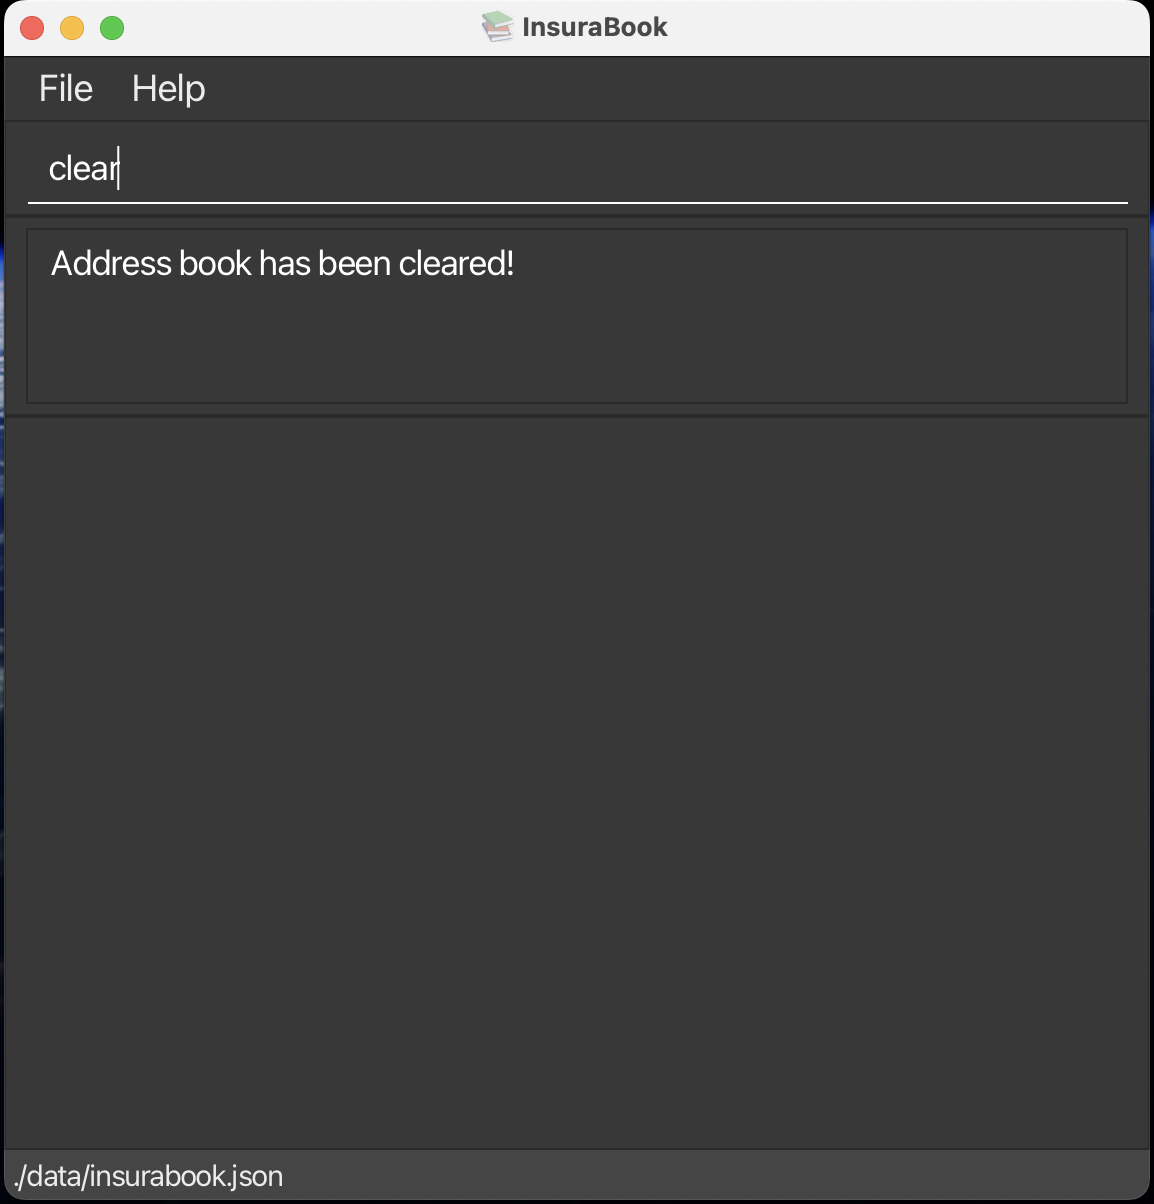
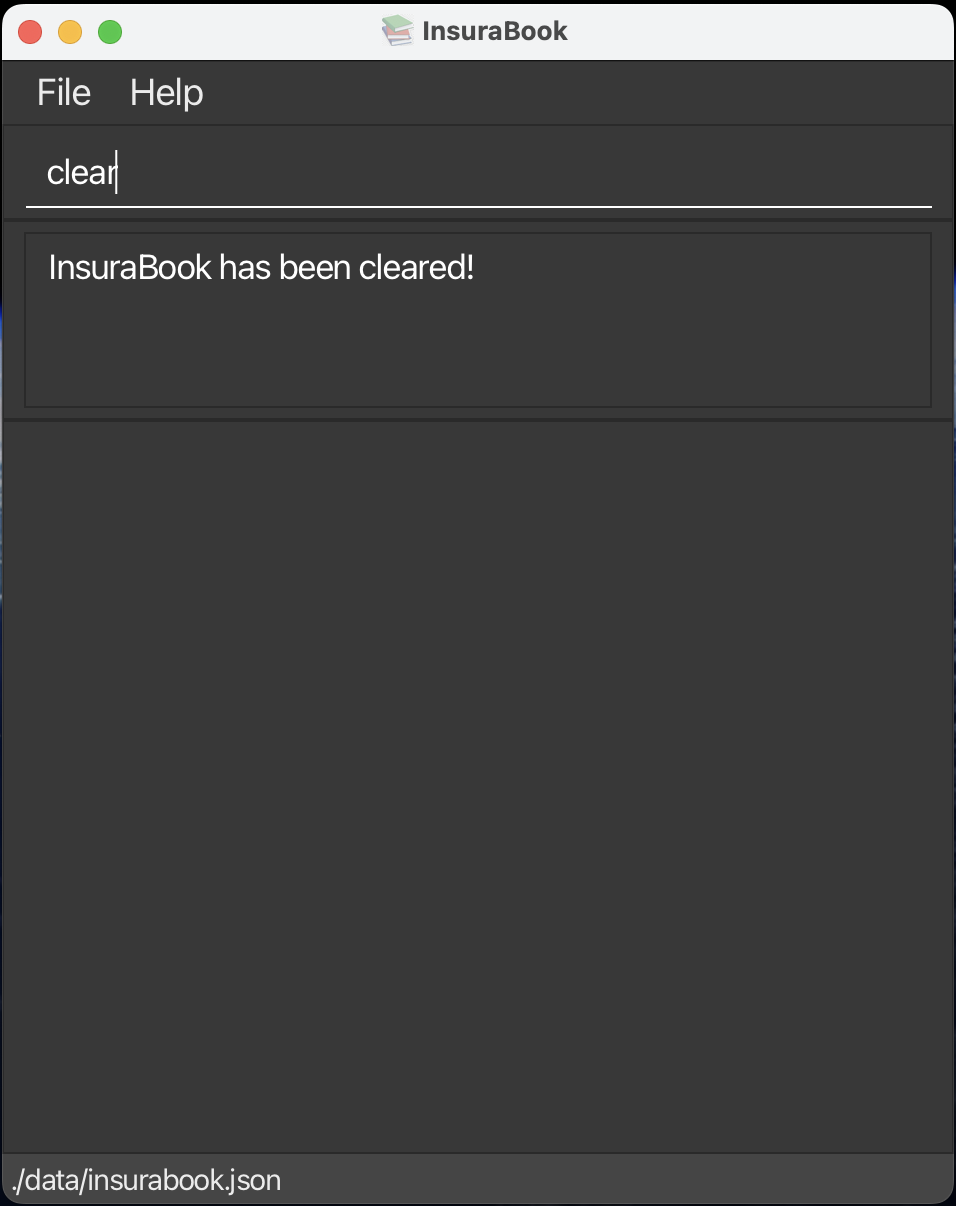
Edit display message for clear command

diff --git a/src/main/java/seedu/address/logic/commands/ClearCommand.java b/src/main/java/seedu/address/logic/commands/ClearCommand.java
@@ -11,7 +11,7 @@ import seedu.address.model.Model;
 public class ClearCommand extends Command {
 
     public static final String COMMAND_WORD = "clear";
-    public static final String MESSAGE_SUCCESS = "Address book has been cleared!";
+    public static final String MESSAGE_SUCCESS = "InsuraBook has been cleared!";
 
 
     @Override
